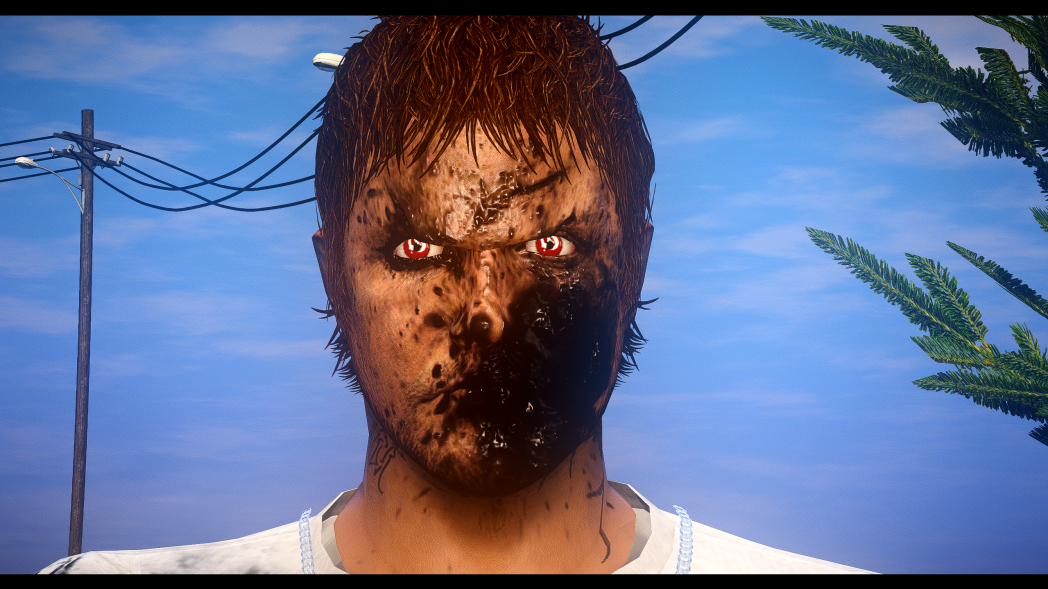
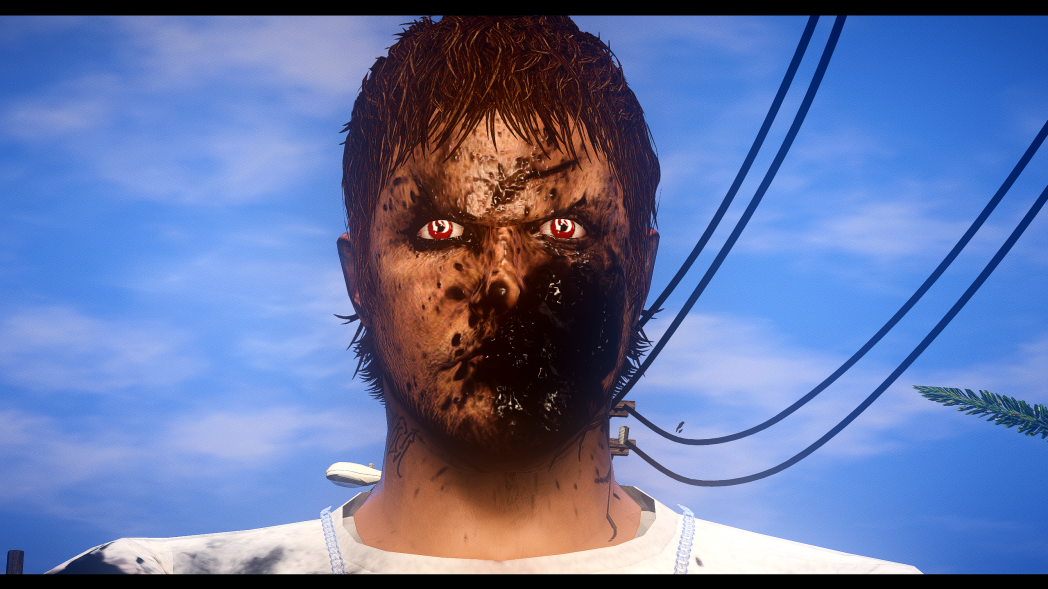
images

diff --git a/ipromx.js b/ipromx.js
@@ -1498,12 +1498,12 @@ const DATA = {
     },
     {
       title: "Sylvester Shade ! Teaser #2 - GTA 5 RP",
-      image: "https://i.ytimg.com/vi/TTOD3ROwR6s/hqdefault.jpg",
+      image: "images/letigrebl/silvershadeciné2.png",
       videoId: "TTOD3ROwR6s"
     },
     {
       title: "Nouveau Personnage ! Teaser #1 - GTA 5 RP",
-      image: "https://i.ytimg.com/vi/wgZ0_iSvkZ0/hqdefault.jpg",
+      image: "images/letigrebl/silvershadeciné.webp",
       videoId: "wgZ0_iSvkZ0"
     },
     {
@@ -1512,8 +1512,8 @@ const DATA = {
       videoId: "sReaGjD0op4"
     },
     {
-      title: "HOMMAGE AU FLASH (IPROMX) CINÉMATIQUE!",
-      image: "https://i.ytimg.com/vi/3fPWr6JvPIk/hqdefault.jpg",
+      title: "HOMMAGE AUX FLASH (IPROMX) CINÉMATIQUE!",
+      image: "images/letigrebl/hommageflashciné.png", //https://i.ytimg.com/vi/3fPWr6JvPIk/hqdefault.jpg
       videoId: "3fPWr6JvPIk"
     },
     {
@@ -1528,7 +1528,7 @@ const DATA = {
     },
     {
       title: "JADE DEVIENT HUMAINE ! CINÉMATIQUE ",
-      image: "https://i.ytimg.com/vi/KgdeypkzLns/hqdefault.jpg",
+      image: "images/letigrebl/nedjadecoeurciné.png",
       videoId: "KgdeypkzLns"
     },
     {
